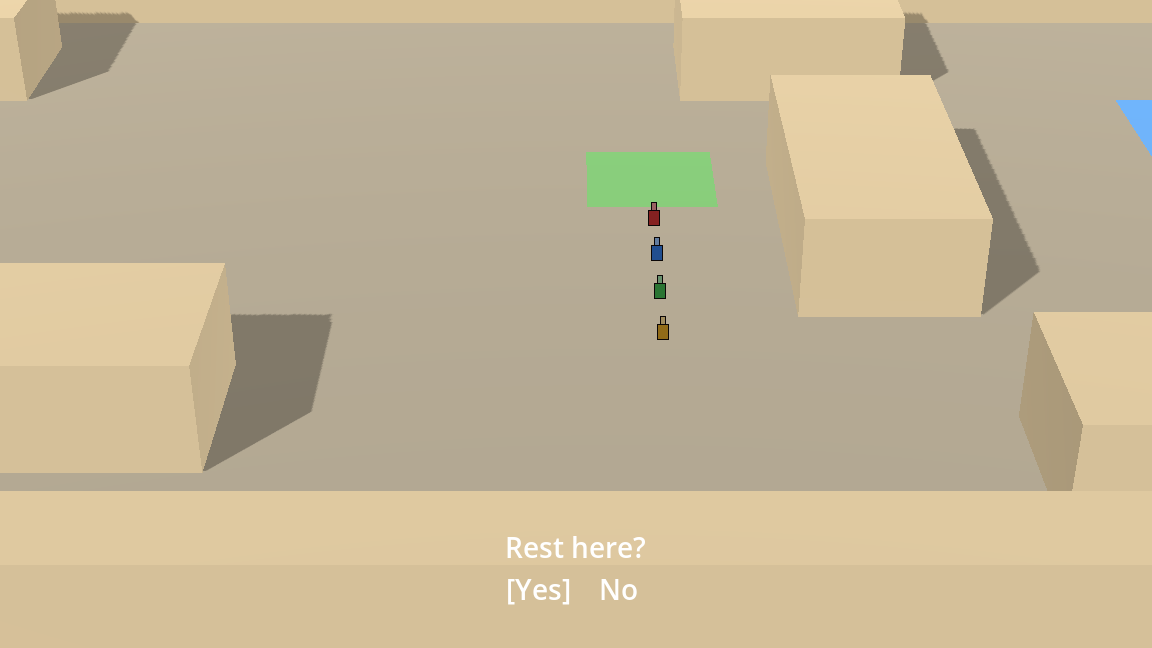
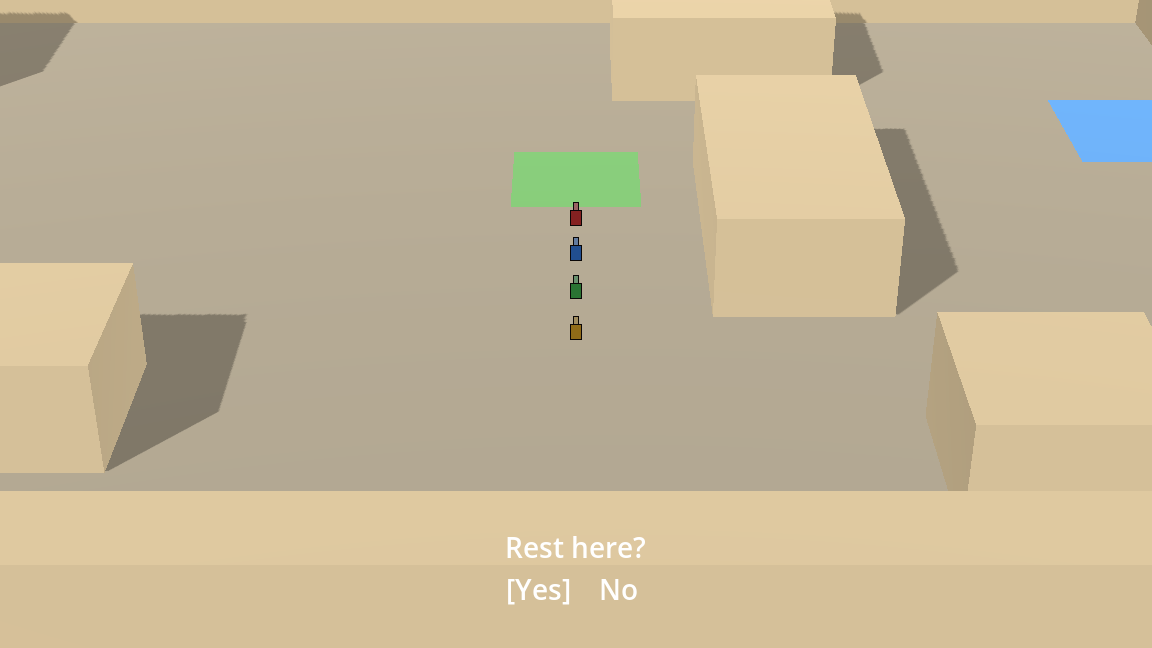
feat: patrol and spawn safe-zone clearance in validate_maps, and two dungeon patrols (overworld story 077)
MapStructureValidator now checks AC-30c for every patrolling symbol: no
spawn point or segment (a loop's closing segment included) within
safe_radius_m of an EntryPoint or CampSpot (segment to point) or a MapExit
rectangle (segment to rectangle), or within symbol_chase_m + body_radius of
a return marker; Static symbols are exempt. The dungeon gets the denser
symbols the GDD asks for: a Clerk pacing the first room's far side and one
across the hall beyond the boom, both clear. Closing-segment check watched
failing when removed. Suite 883/883.

Story: OW-077

diff --git a/production/epics/overworld-exploration-encounters/EPIC.md b/production/epics/overworld-exploration-encounters/EPIC.md
@@ -140,7 +140,7 @@ It depends on Game State (Done), Input (`get_move_vector()`), Content Data, and 
 | 074 | [Every MapExit, critical-path leg and ChapterFlow step reference resolves](story-074-map-exit-and-critical-path-reference-integrity.md) | Logic | Ready | ADR-0012 |
 | 075 | [Town, dungeon, story-encounter and boss placement match the map-structure rules](story-075-town-dungeon-story-encounter-and-boss-placement.md) | Logic | Complete | ADR-0012 |
 | 076 | [Retained walk-in screenshot — the Permit Counter is on screen from the pre-dungeon camp](story-076-permit-counter-telegraph-screenshot.md) | Visual/Feel | Ready | ADR-0012 |
-| 077 | [No spawn point or patrol segment crowds a safe zone or a return marker](story-077-patrol-and-spawn-safe-zone-clearance.md) | Logic | Ready | ADR-0012 |
+| 077 | [No spawn point or patrol segment crowds a safe zone or a return marker](story-077-patrol-and-spawn-safe-zone-clearance.md) | Logic | Complete | ADR-0012 |
 | 078 | [Every encounter, symbol, flag, payoff, remark, decree-gag and item reference resolves](story-078-overworld-reference-integrity-check.md) | Logic | Ready | ADR-0012 |
 | 079 | [Shipped scenes contain no physics nodes and no live collision on GridMap or TileMapLayer](story-079-no-physics-nodes-in-shipped-maps.md) | Logic | Ready | ADR-0012 |
 | 080 | [Every EntryPoint sits clear of every MapExit rectangle, facing into the map](story-080-entry-point-exit-clearance.md) | Logic | Complete | ADR-0012 |

diff --git a/production/epics/overworld-exploration-encounters/story-077-patrol-and-spawn-safe-zone-clearance.md b/production/epics/overworld-exploration-encounters/story-077-patrol-and-spawn-safe-zone-clearance.md
@@ -1,7 +1,7 @@
 # Story 077: No spawn point or patrol segment crowds a safe zone or a return marker
 
 > **Epic**: Overworld Exploration & Encounters
-> **Status**: Ready
+> **Status**: Complete (2026-10-29)
 > **Layer**: Feature
 > **Type**: Logic
 > **Estimate**: M
@@ -32,7 +32,7 @@
 
 *From GDD `design/gdd/overworld-exploration-encounters.md`, scoped to this story:*
 
-- [ ] **AC-30c [D] (R12)** No spawn point or patrol segment (closing segment included) lies within `safe_radius_m` of any EntryPoint or CampSpot (segment-to-point) or MapExit trigger rectangle (segment-to-rectangle), or within `symbol_chase_m + body_radius` of any return marker.
+- [x] **AC-30c [D] (R12)** No spawn point or patrol segment (closing segment included) lies within `safe_radius_m` of any EntryPoint or CampSpot (segment-to-point) or MapExit trigger rectangle (segment-to-rectangle), or within `symbol_chase_m + body_radius` of any return marker.
 
 ---
 
@@ -74,7 +74,7 @@
 **Required evidence**:
 - `tests/unit/overworld/data/patrol_and_spawn_safe_zone_clearance_test.gd` — must exist and pass (`/story-done` checks that it EXISTS; pass/fail is established by `/gate-check` and `/smoke-check`)
 
-**Status**: [ ] Not yet created
+**Status**: [x] Created and passing
 
 ---
 
